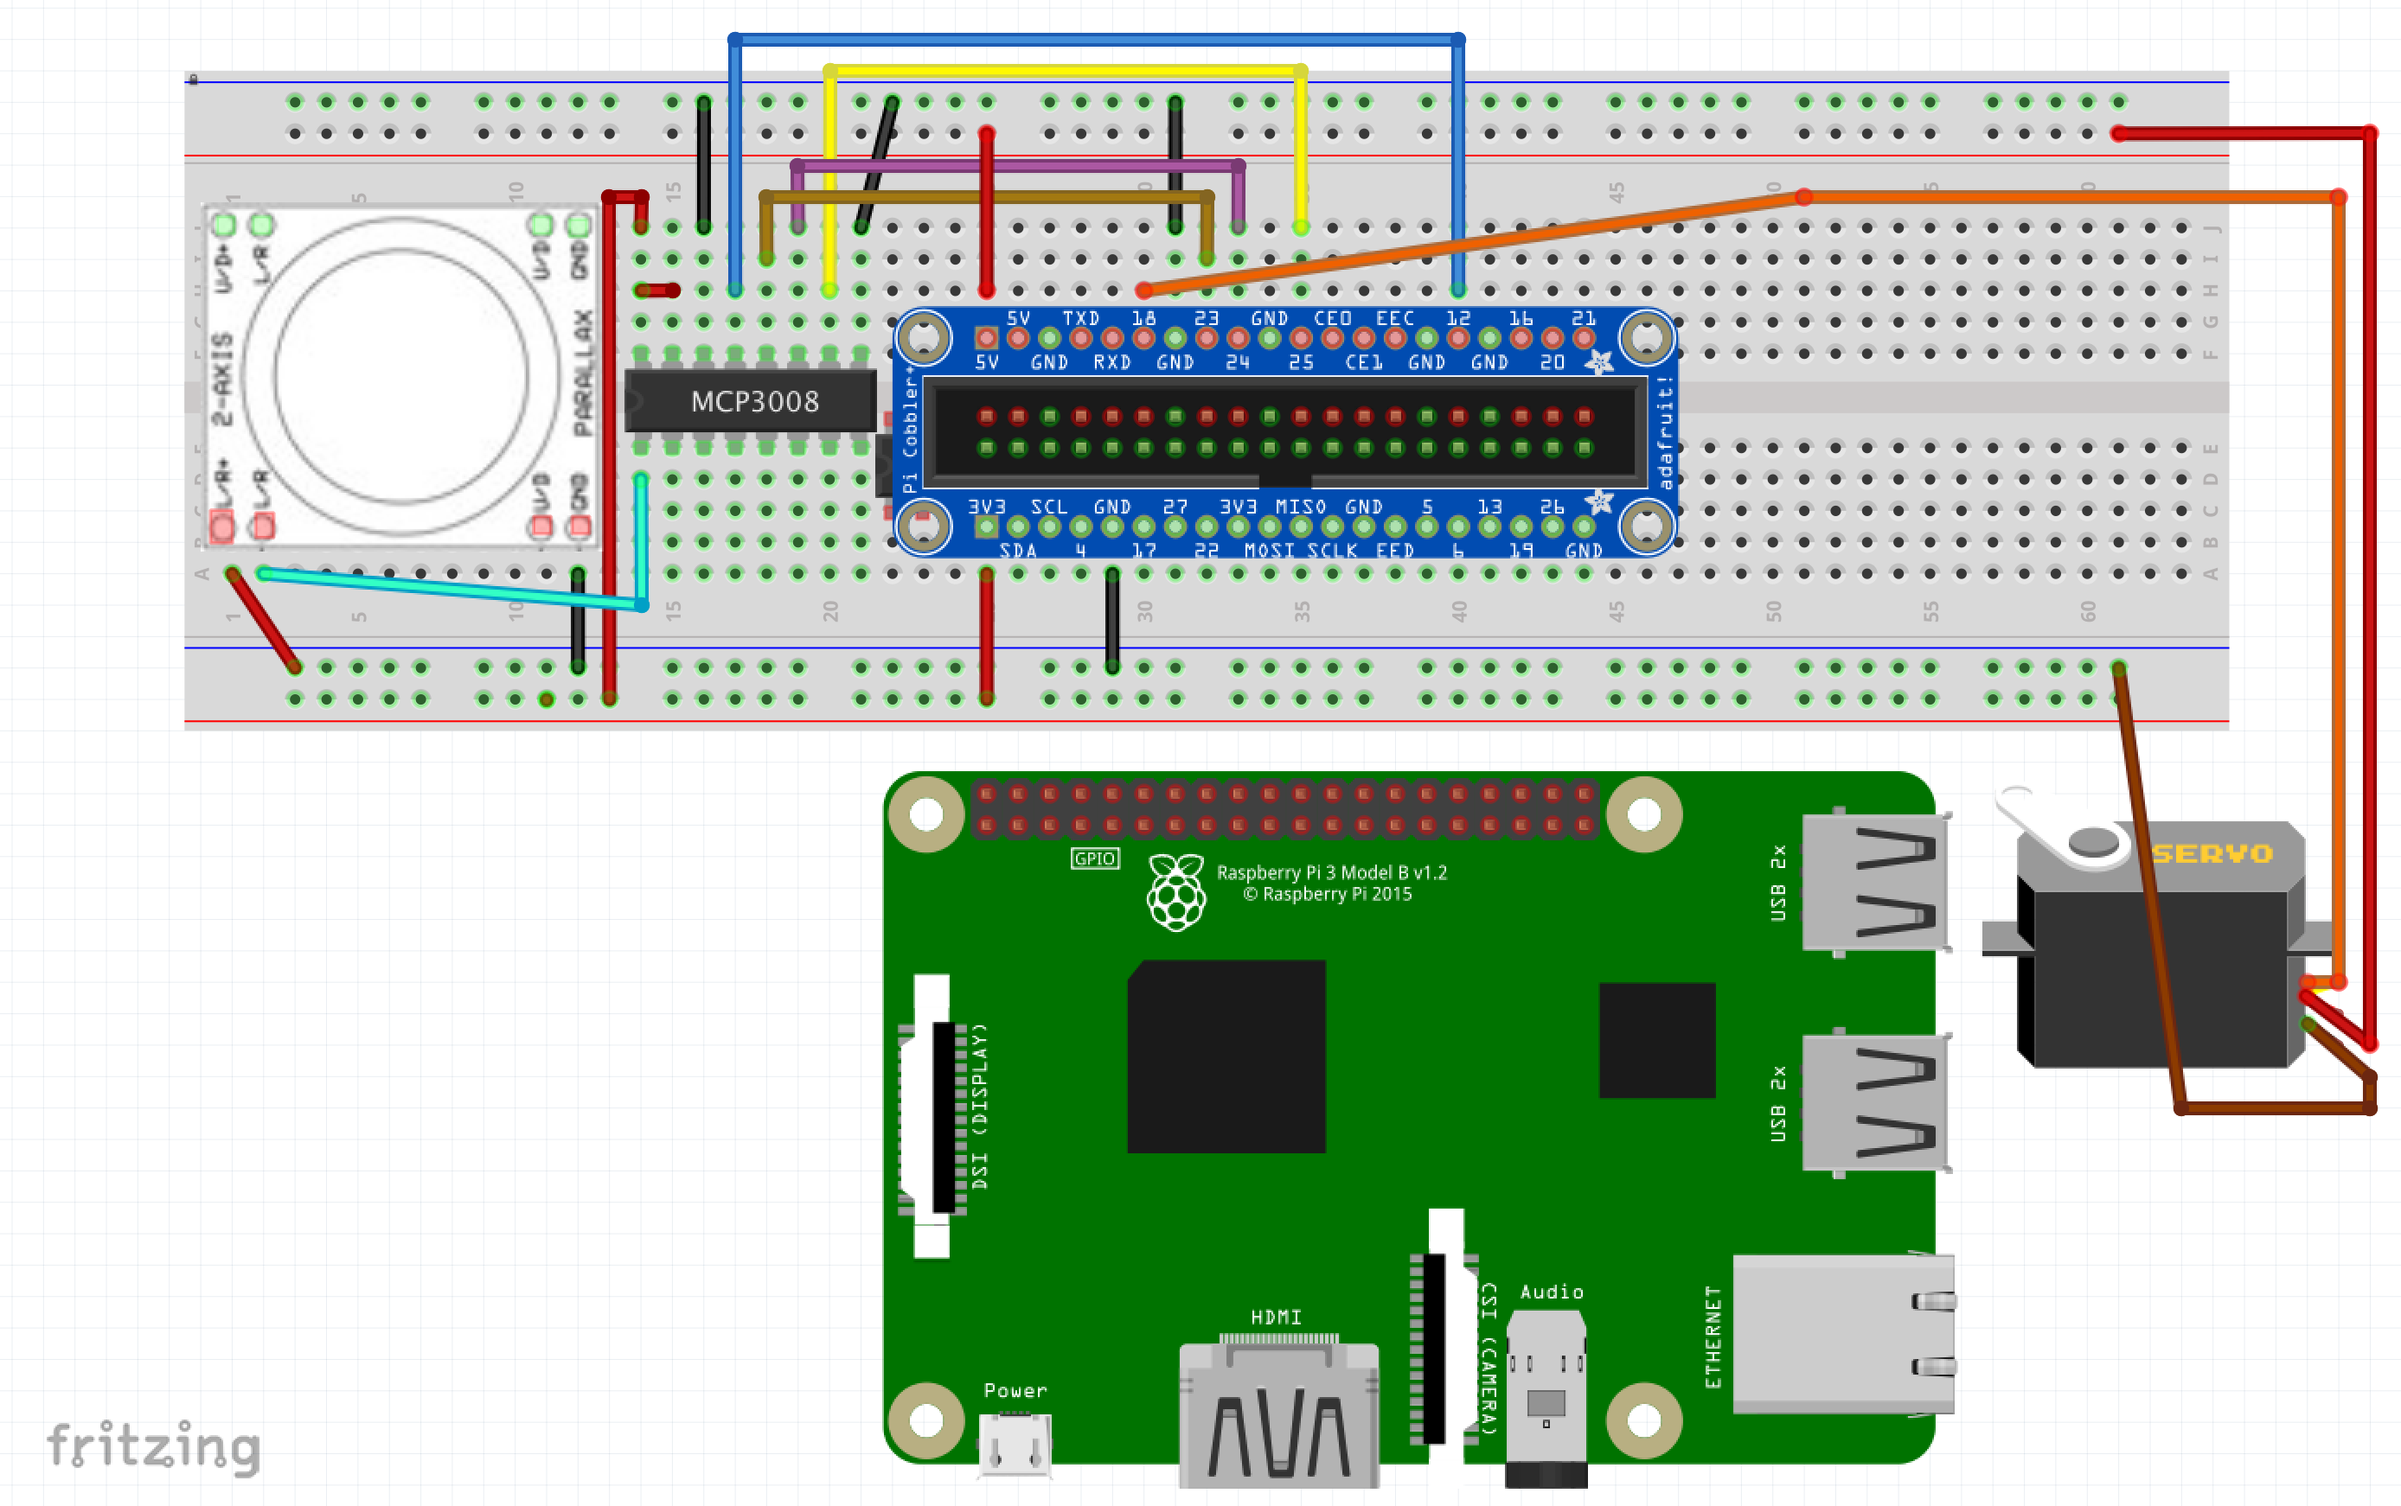
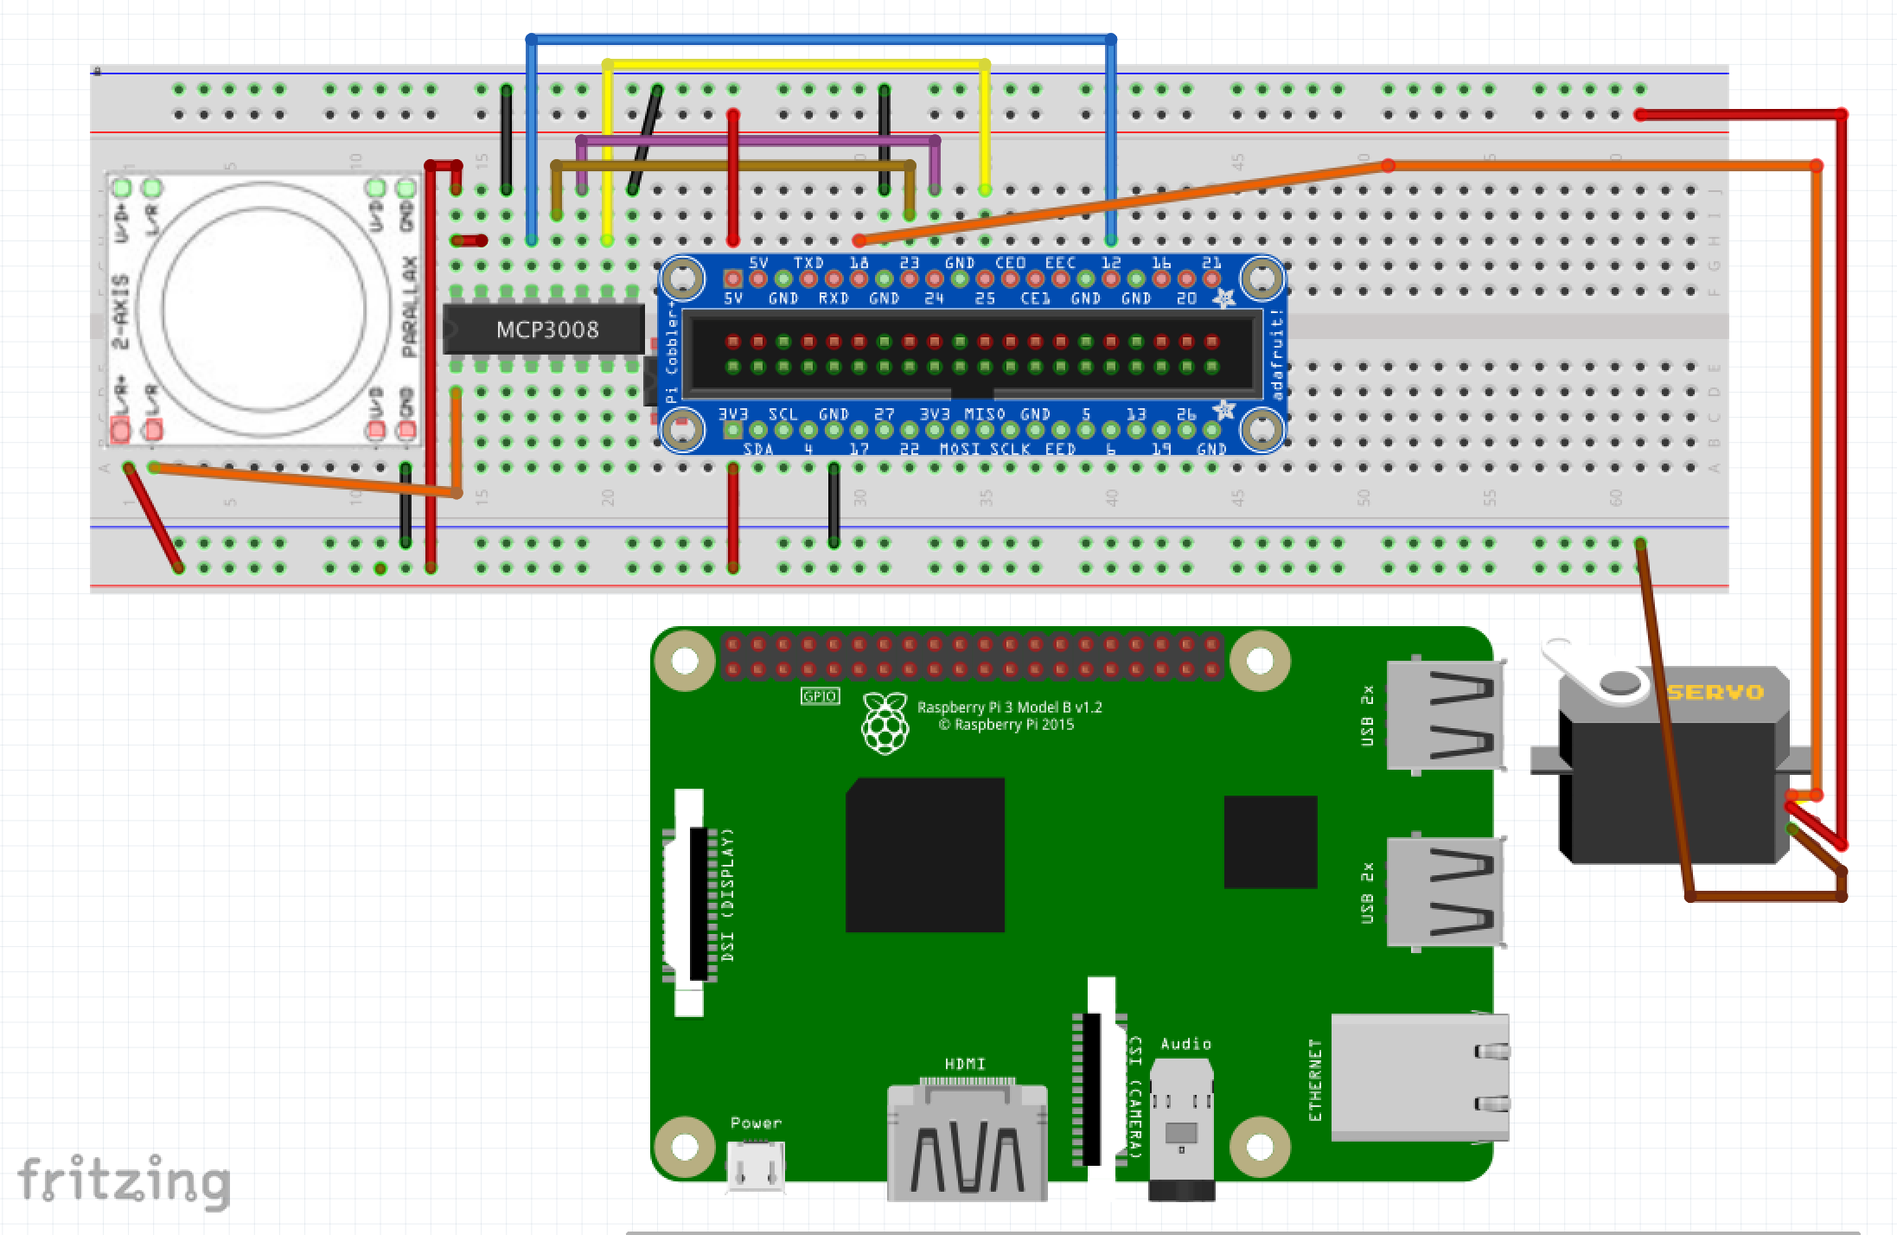
update wiring diagram for joystick
Had the joystick fzz diagram putting the + side of the joystick to
ground. Oops. Also throttled the thermostat demo so it wouldn’t push
state changes more than once per 2nd (and error)

diff --git a/pubsub-thermostat/control_server.py b/pubsub-thermostat/control_server.py
@@ -16,6 +16,7 @@ import argparse
 import base64
 import json
 import sys
+import time
 
 from googleapiclient import discovery
 from oauth2client.service_account import ServiceAccountCredentials
@@ -113,6 +114,8 @@ class Server(object):
         # Send the config to the device.
         self._update_device_config(device_project_id, device_region,
                                    device_registry_id, device_id, data, fan_on_thresh, fan_off_thresh)
+        # state change updates throttled to 1 sec by pubsub. Obey or crash. 
+        time.sleep(1)
 
       if results:
         # Acknowledge the consumed messages. This will ensure that they are not
